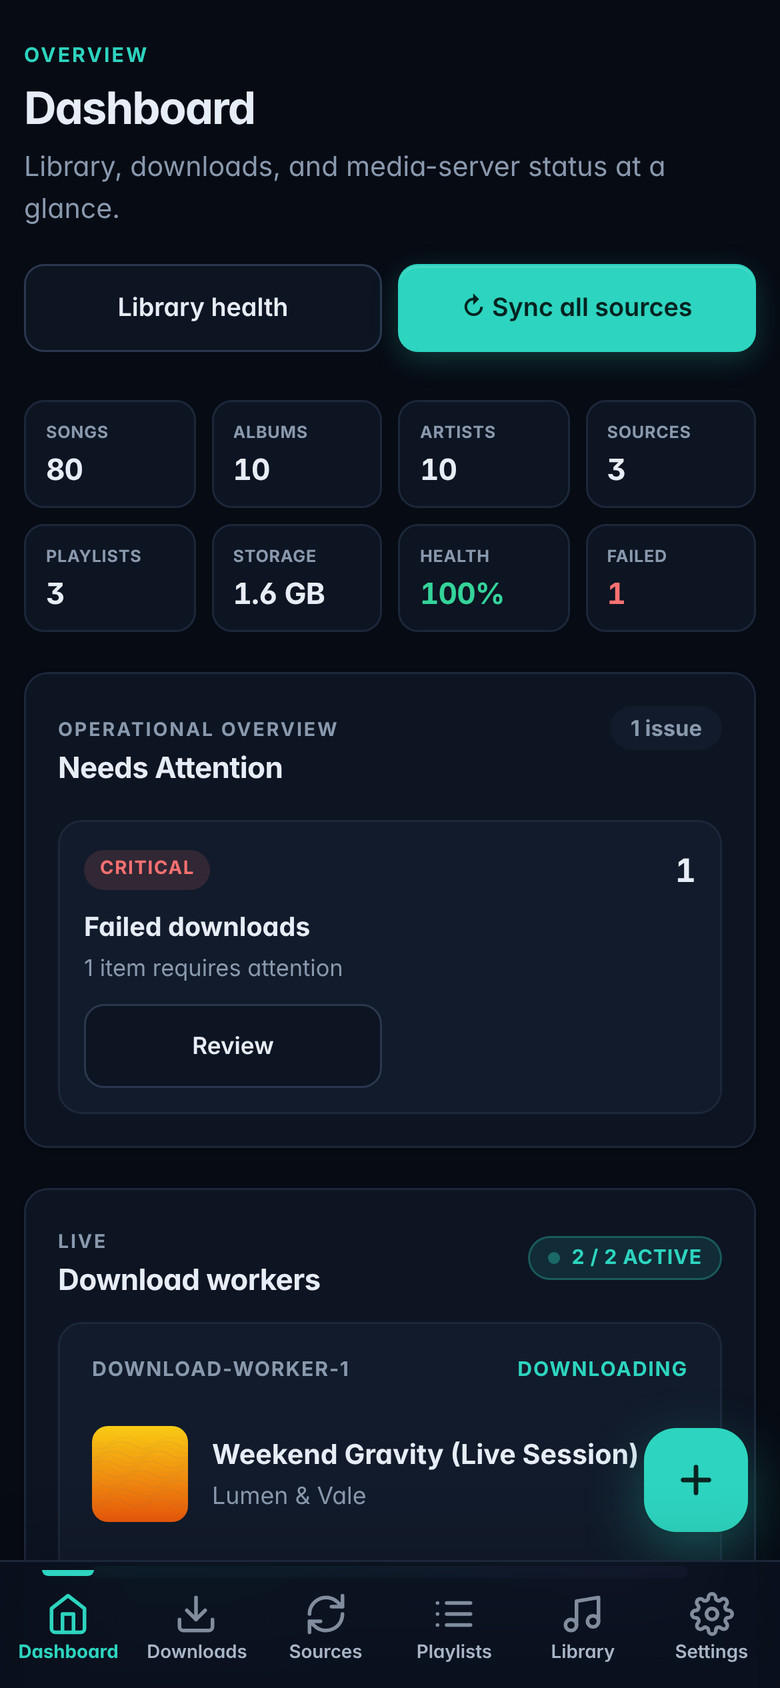
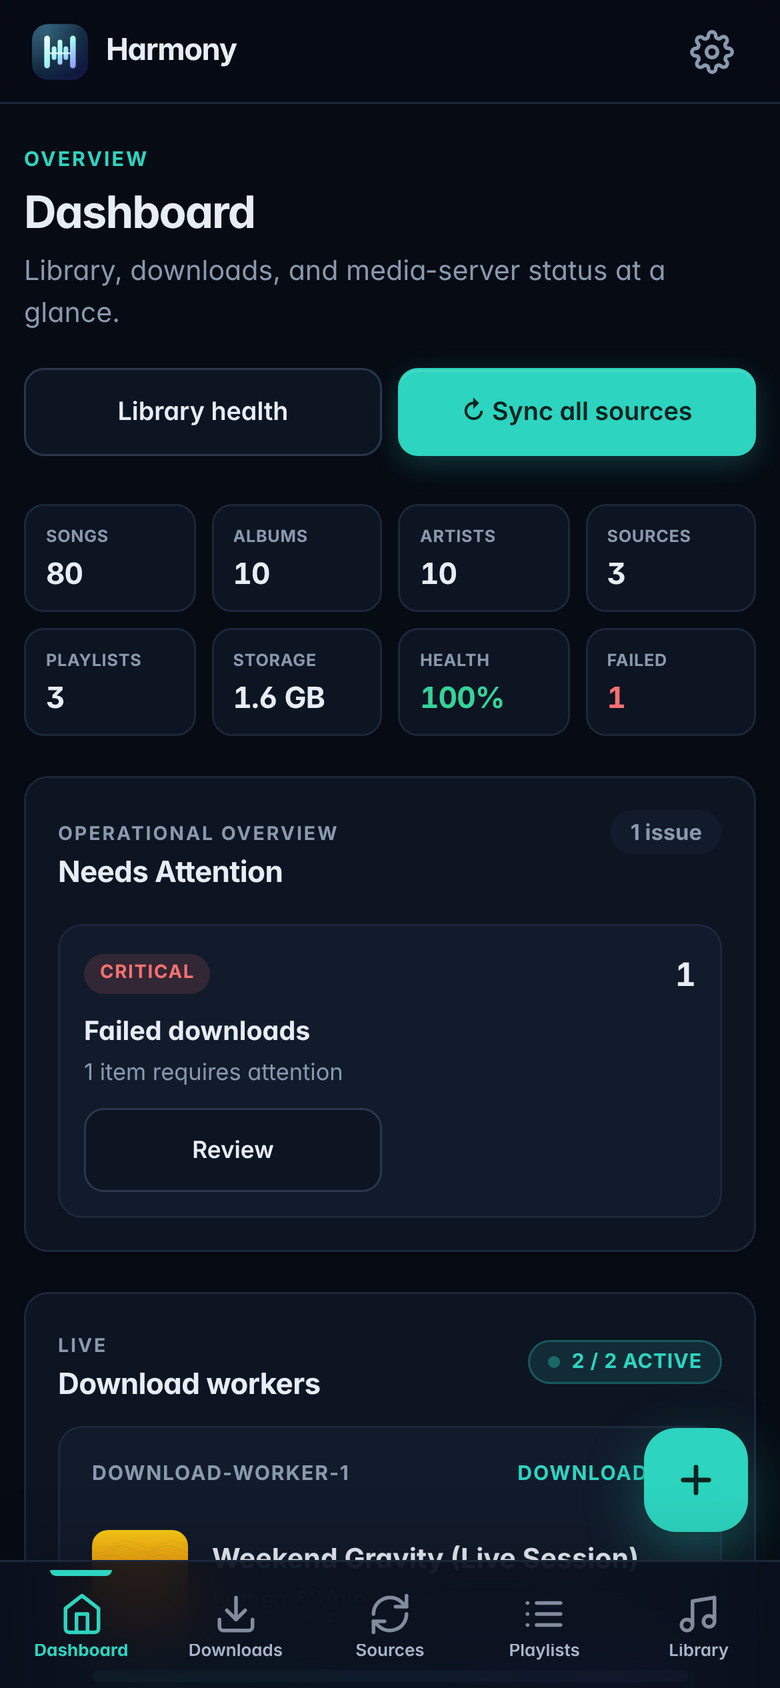
Use five mobile tabs and move Settings to a phone top bar
The phone bottom navigation now holds the five primary sections
(Dashboard, Downloads, Sources, Playlists, Library), giving each tab
more room. Settings moves to a gear button in a new sticky, phone-only
top bar next to the Harmony brand; it highlights on the Settings page.
Desktop navigation is unchanged.

Refresh the README mobile screenshots and hero banner to match.

Claude-Session: https://claude.ai/code/session_015tL4GTCJcGcPb4q4cCSxtX

diff --git a/app/templates/base.html b/app/templates/base.html
@@ -14,10 +14,19 @@
     <link rel="icon" type="image/svg+xml" href="/static/brand/harmony-icon.svg">
     <link rel="icon" type="image/png" sizes="192x192" href="/static/pwa/icon-192.png">
     <link rel="apple-touch-icon" href="/static/pwa/apple-touch-icon.png">
-    <link rel="stylesheet" href="/static/css/app.css?v={{ version }}&ui=4">
+    <link rel="stylesheet" href="/static/css/app.css?v={{ version }}&ui=5">
 </head>
 <body>
 <a class="skip-link" href="#main-content">Skip to main content</a>
+<header class="mobile-topbar">
+    <a class="mobile-topbar-brand" href="/" aria-label="Harmony dashboard">
+        <img src="/static/brand/harmony-icon.svg" alt="">
+        <span>Harmony</span>
+    </a>
+    <a href="/settings" class="mobile-topbar-action{% if page in ['settings', 'providers'] %} active{% endif %}" aria-label="Settings" title="Settings"{% if page in ['settings', 'providers'] %} aria-current="page"{% endif %}>
+        <svg viewBox="0 0 24 24" fill="none" stroke="currentColor" stroke-width="2" stroke-linecap="round" stroke-linejoin="round" aria-hidden="true"><circle cx="12" cy="12" r="3"></circle><path d="M19.4 15a1.65 1.65 0 0 0 .33 1.82l.06.06a2 2 0 0 1 0 2.83 2 2 0 0 1-2.83 0l-.06-.06a1.65 1.65 0 0 0-1.82-.33 1.65 1.65 0 0 0-1 1.51V21a2 2 0 0 1-2 2 2 2 0 0 1-2-2v-.09A1.65 1.65 0 0 0 9 19.4a1.65 1.65 0 0 0-1.82.33l-.06.06a2 2 0 0 1-2.83 0 2 2 0 0 1 0-2.83l.06-.06a1.65 1.65 0 0 0 .33-1.82 1.65 1.65 0 0 0-1.51-1H3a2 2 0 0 1-2-2 2 2 0 0 1 2-2h.09A1.65 1.65 0 0 0 4.6 9a1.65 1.65 0 0 0-.33-1.82l-.06-.06a2 2 0 0 1 0-2.83 2 2 0 0 1 2.83 0l.06.06a1.65 1.65 0 0 0 1.82.33H9a1.65 1.65 0 0 0 1-1.51V3a2 2 0 0 1 2-2 2 2 0 0 1 2 2v.09a1.65 1.65 0 0 0 1 1.51 1.65 1.65 0 0 0 1.82-.33l.06-.06a2 2 0 0 1 2.83 0 2 2 0 0 1 0 2.83l-.06.06a1.65 1.65 0 0 0-.33 1.82V9a1.65 1.65 0 0 0 1.51 1H21a2 2 0 0 1 2 2 2 2 0 0 1-2 2h-.09a1.65 1.65 0 0 0-1.51 1z"></path></svg>
+    </a>
+</header>
 <div class="layout">
     <aside class="sidebar">
         <a class="app-brand" href="/" aria-label="Harmony dashboard">
@@ -50,7 +59,7 @@
                 <svg class="nav-icon" viewBox="0 0 24 24" fill="none" stroke="currentColor" stroke-width="2" stroke-linecap="round" stroke-linejoin="round"><path d="M9 18V5l12-2v13"></path><circle cx="6" cy="18" r="3"></circle><circle cx="18" cy="16" r="3"></circle></svg>
                 <span class="nav-text">Library</span>
             </a>
-            <a href="/settings" class="{% if page in ['settings', 'providers'] %}active{% endif %}"{% if page in ['settings', 'providers'] %} aria-current="page"{% endif %}>
+            <a href="/settings" class="nav-settings{% if page in ['settings', 'providers'] %} active{% endif %}"{% if page in ['settings', 'providers'] %} aria-current="page"{% endif %}>
                 <svg class="nav-icon" viewBox="0 0 24 24" fill="none" stroke="currentColor" stroke-width="2" stroke-linecap="round" stroke-linejoin="round"><circle cx="12" cy="12" r="3"></circle><path d="M19.4 15a1.65 1.65 0 0 0 .33 1.82l.06.06a2 2 0 0 1 0 2.83 2 2 0 0 1-2.83 0l-.06-.06a1.65 1.65 0 0 0-1.82-.33 1.65 1.65 0 0 0-1 1.51V21a2 2 0 0 1-2 2 2 2 0 0 1-2-2v-.09A1.65 1.65 0 0 0 9 19.4a1.65 1.65 0 0 0-1.82.33l-.06.06a2 2 0 0 1-2.83 0 2 2 0 0 1 0-2.83l.06-.06a1.65 1.65 0 0 0 .33-1.82 1.65 1.65 0 0 0-1.51-1H3a2 2 0 0 1-2-2 2 2 0 0 1 2-2h.09A1.65 1.65 0 0 0 4.6 9a1.65 1.65 0 0 0-.33-1.82l-.06-.06a2 2 0 0 1 0-2.83 2 2 0 0 1 2.83 0l.06.06a1.65 1.65 0 0 0 1.82.33H9a1.65 1.65 0 0 0 1-1.51V3a2 2 0 0 1 2-2 2 2 0 0 1 2 2v.09a1.65 1.65 0 0 0 1 1.51 1.65 1.65 0 0 0 1.82-.33l.06-.06a2 2 0 0 1 2.83 0 2 2 0 0 1 0 2.83l-.06.06a1.65 1.65 0 0 0-.33 1.82V9a1.65 1.65 0 0 0 1.51 1H21a2 2 0 0 1 2 2 2 2 0 0 1-2 2h-.09a1.65 1.65 0 0 0-1.51 1z"></path></svg>
                 <span class="nav-text">Settings</span>
             </a>

diff --git a/app/static/css/app.css b/app/static/css/app.css
@@ -483,6 +483,10 @@ strong, b { font-weight: 650; }
 .logout-button svg { width: 16px; height: 16px; }
 .logout-button:hover { border-color: var(--border-strong); background: var(--bg-surface-hover); color: var(--text-main); }
 
+/* Phone-only top bar: brand plus Settings, which leaves the bottom tab bar
+   for the five primary sections. */
+.mobile-topbar { display: none; }
+
 .content {
     flex: 1;
     width: calc(100% - var(--sidebar-width));
@@ -1322,7 +1326,7 @@ progress { accent-color: var(--primary); }
     .content {
         width: 100%;
         margin-left: 0;
-        padding: calc(16px + env(safe-area-inset-top))
+        padding: 16px
             max(16px, env(safe-area-inset-right))
             calc(150px + env(safe-area-inset-bottom))
             max(16px, env(safe-area-inset-left));
@@ -1342,7 +1346,37 @@ progress { accent-color: var(--primary); }
         backdrop-filter: blur(18px) saturate(1.4);
         z-index: 2000;
     }
-    .sidebar .app-brand, .sidebar-footer, .sidebar-new-download, .sidebar-section-label { display: none; }
+    .sidebar .app-brand, .sidebar-footer, .sidebar-new-download, .sidebar-section-label, .sidebar nav a.nav-settings { display: none; }
+
+    .mobile-topbar {
+        position: sticky;
+        top: 0;
+        z-index: 1900;
+        display: flex;
+        align-items: center;
+        justify-content: space-between;
+        gap: 12px;
+        min-height: calc(52px + env(safe-area-inset-top));
+        padding: env(safe-area-inset-top) max(12px, env(safe-area-inset-right)) 0 max(16px, env(safe-area-inset-left));
+        border-bottom: 1px solid var(--border-color);
+        background: color-mix(in srgb, var(--bg-body) 86%, transparent);
+        backdrop-filter: blur(18px) saturate(1.4);
+    }
+    .mobile-topbar-brand { display: flex; align-items: center; gap: 9px; color: var(--text-main); font-size: 1.08rem; font-weight: 750; letter-spacing: -.03em; text-decoration: none; }
+    .mobile-topbar-brand img { display: block; width: 28px; aspect-ratio: 1 / 1; border-radius: 8px; }
+    .mobile-topbar-action {
+        display: inline-grid;
+        place-items: center;
+        width: 44px;
+        height: 44px;
+        border-radius: 12px;
+        color: var(--text-muted);
+        transition: background-color .15s ease, color .15s ease;
+    }
+    .mobile-topbar-action svg { width: 22px; height: 22px; }
+    .mobile-topbar-action:hover { background: var(--bg-surface-hover); color: var(--text-main); }
+    .mobile-topbar-action.active { background: var(--primary-soft); color: var(--primary); }
+    .layout { min-height: calc(100dvh - 52px - env(safe-area-inset-top)); }
     .sidebar nav { flex-direction: row; align-items: center; gap: 0; width: 100%; }
     .sidebar nav a {
         flex: 1;
@@ -2515,7 +2549,7 @@ progress { accent-color: var(--primary); }
         padding-left: max(12px, env(safe-area-inset-left));
     }
     .sidebar { padding-right: 2px; padding-left: 2px; }
-    .sidebar a { font-size: 0.59rem; }
+    .sidebar nav a { font-size: 0.62rem; }
     .library-albums-grid { gap: 11px; padding: 12px; }
     .health-hero { flex-direction: column; }
     .health-score { align-self: flex-start; }

diff --git a/README.md b/README.md
@@ -84,7 +84,7 @@ Choose **Auto**, **Dark**, or **Light** under **Settings → Appearance**.
 
 <table>
   <tr>
-    <td width="25%"><img src="docs/images/screenshots/mobile-dashboard.jpg" alt="Mobile dashboard with compact metric grid and bottom navigation"></td>
+    <td width="25%"><img src="docs/images/screenshots/mobile-dashboard.jpg" alt="Mobile dashboard with top bar, compact metric grid, and five-tab bottom navigation"></td>
     <td width="25%"><img src="docs/images/screenshots/mobile-library.jpg" alt="Mobile library with song cards"></td>
     <td width="25%"><img src="docs/images/screenshots/mobile-downloads.jpg" alt="Mobile downloads page"></td>
     <td width="25%"><img src="docs/images/screenshots/mobile-playlists.jpg" alt="Mobile playlist cards"></td>

diff --git a/CHANGELOG.md b/CHANGELOG.md
@@ -72,6 +72,9 @@ on **Keep a Changelog**, and this project follows **Semantic Versioning**.
   the app shell, the Library Health score ring, and download details showing
   "Invalid Date" for values containing a capital T.
 
+- The mobile bottom navigation now holds five tabs (Dashboard, Downloads,
+  Sources, Playlists, Library). Settings moved to a gear button in a new
+  phone-only top bar beside the Harmony brand; desktop navigation is unchanged.
 - Added a README hero banner and desktop, light-theme, and mobile screenshots
   of the redesigned interface, captured from a demo library of fictional
   artists.
